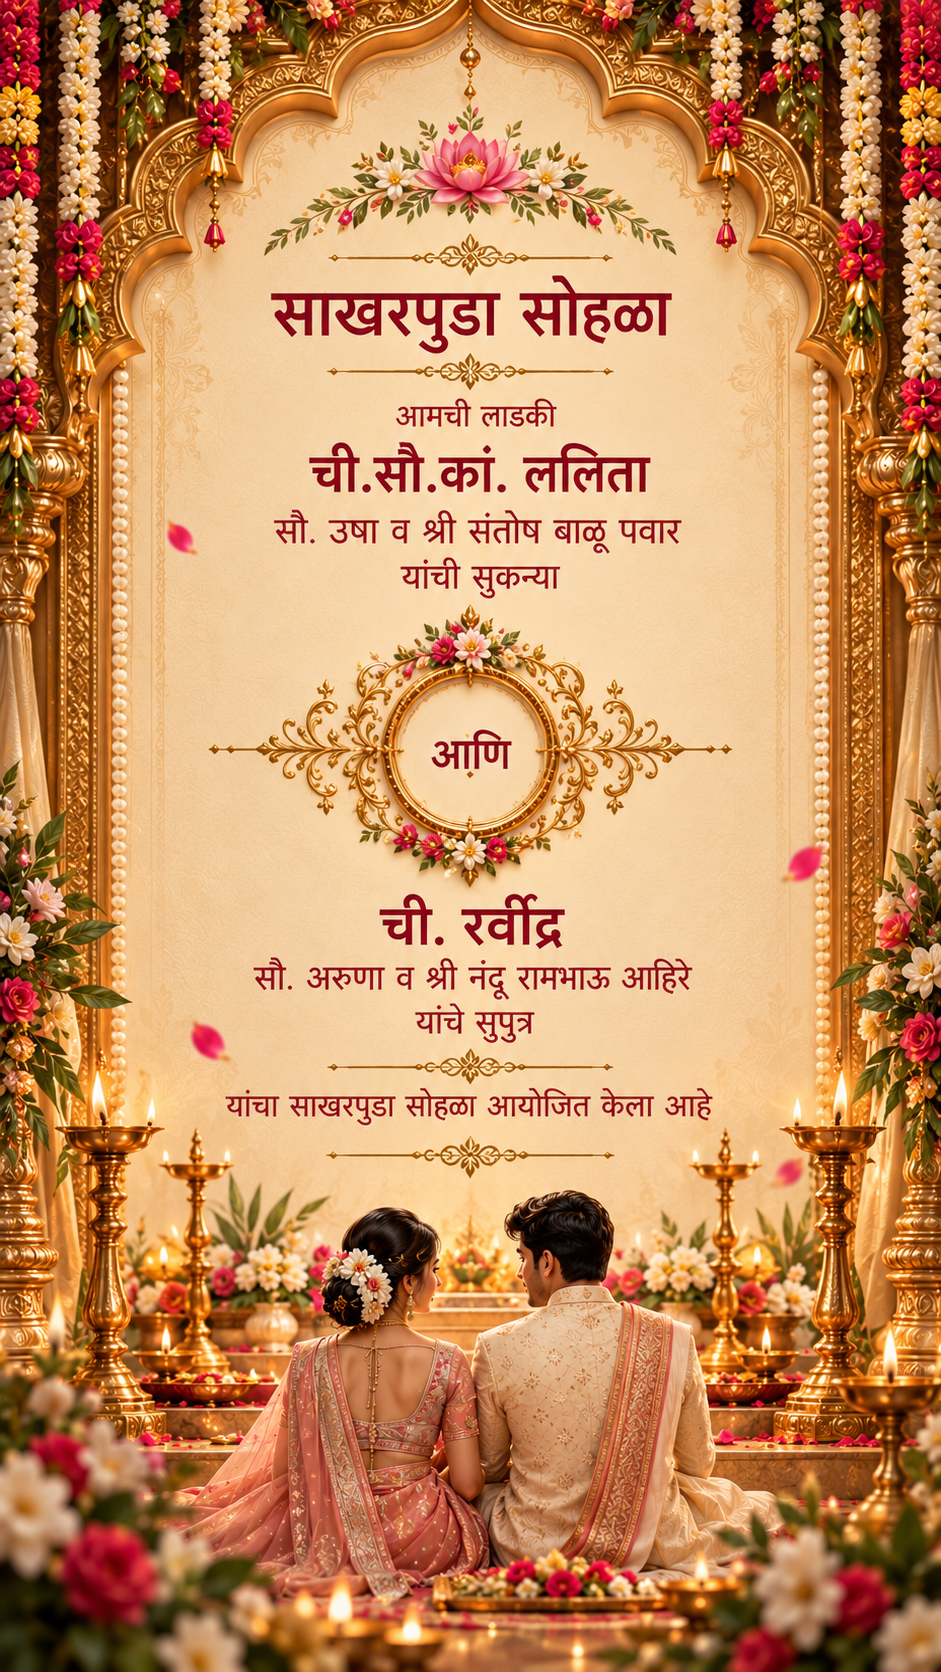
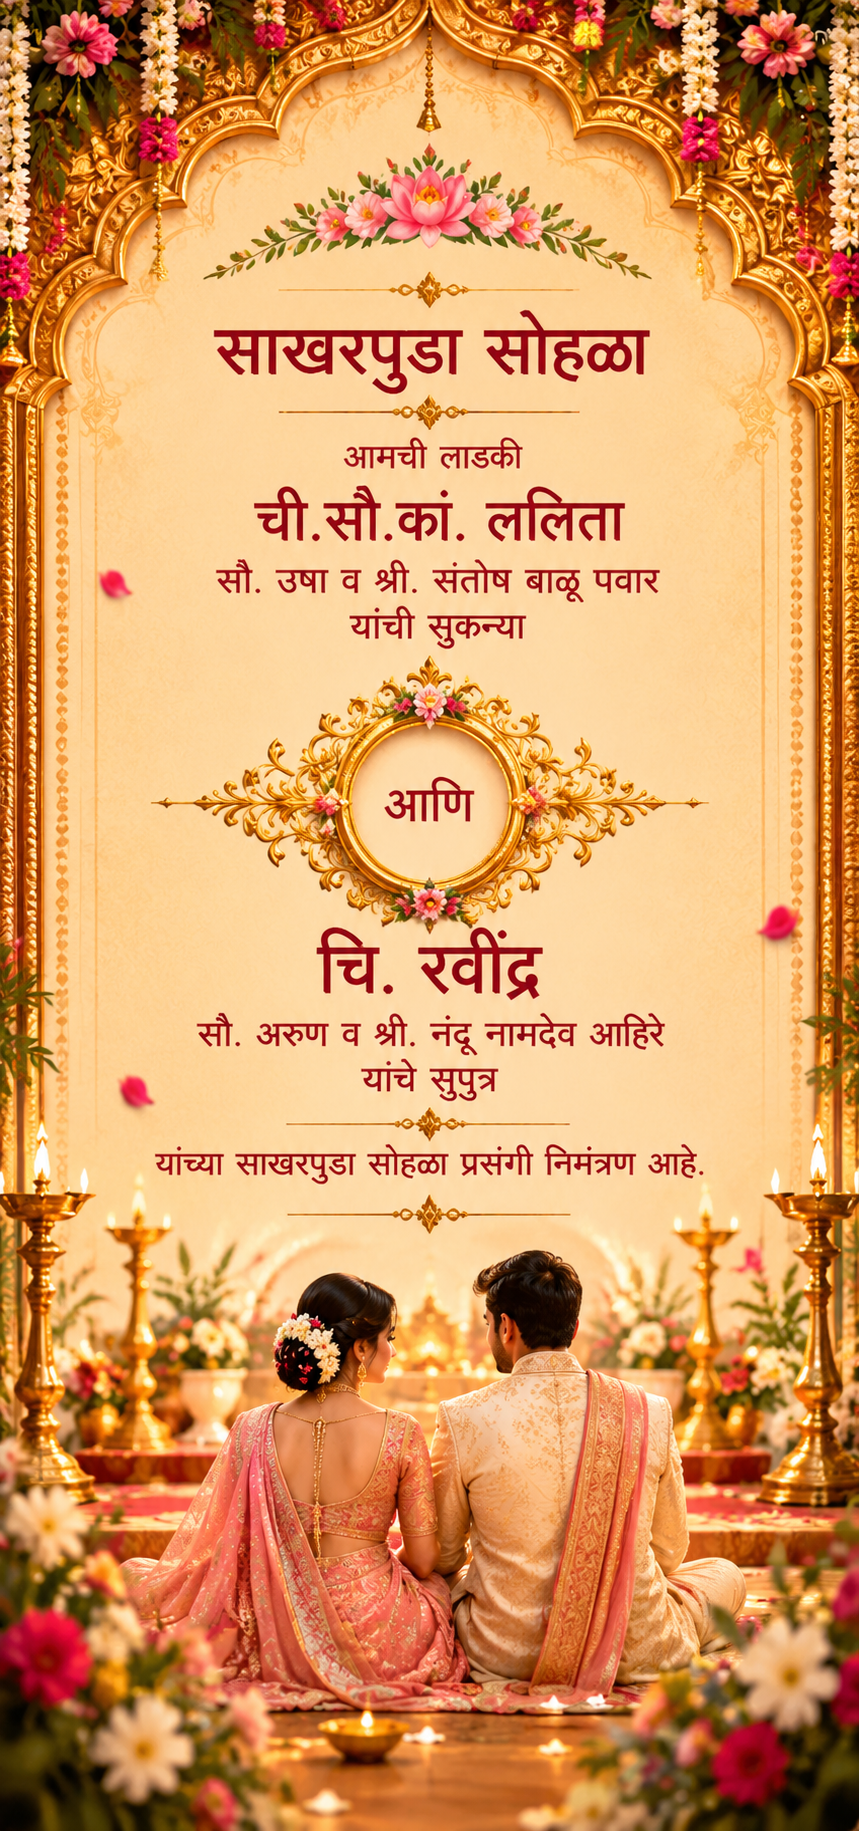
Update Page 2: Integrate new 4th.png artwork and optimize responsive layout

diff --git a/src/components/ThreePageInvitationCard.tsx b/src/components/ThreePageInvitationCard.tsx
@@ -1,7 +1,7 @@
 import React, { useState, useRef } from 'react';
 import { motion, AnimatePresence } from 'framer-motion';
 import type { Variants } from 'framer-motion';
-import { ChevronRight, ChevronLeft, RotateCcw } from 'lucide-react';
+import { ChevronRight, ChevronLeft, RotateCcw, Volume2, VolumeX } from 'lucide-react';
 import { EventCountdown } from './EventCountdown';
 import { CeremonyTimeline } from './CeremonyTimeline';
 import { VenueLocation } from './VenueLocation';
@@ -18,8 +18,25 @@ export const ThreePageInvitationCard: React.FC<ThreePageInvitationCardProps> = (
 }) => {
   const [currentPage, setCurrentPage] = useState<1 | 2 | 3>(initialPage);
   const [direction, setDirection] = useState<number>(1);
+  const [isMuted, setIsMuted] = useState<boolean>(false);
   const touchStartX = useRef<number | null>(null);
   const touchStartY = useRef<number | null>(null);
+
+  const toggleAudio = () => {
+    const audio = document.getElementById('bgMusic') as HTMLAudioElement | null;
+    if (audio) {
+      if (audio.paused || audio.muted) {
+        audio.muted = false;
+        audio.play().catch(() => {});
+        setIsMuted(false);
+      } else {
+        audio.pause();
+        setIsMuted(true);
+      }
+    } else {
+      setIsMuted(!isMuted);
+    }
+  };
 
   const goToPage = (page: 1 | 2 | 3) => {
     if (page < 1 || page > 3 || page === currentPage) return;
@@ -99,7 +116,7 @@ export const ThreePageInvitationCard: React.FC<ThreePageInvitationCardProps> = (
       
       {/* Top Floating Controls Bar with Safe-Area Inset Support */}
       <div 
-        className="fixed inset-x-0 z-40 flex items-center justify-between px-3 sm:px-5 max-w-[480px] mx-auto pointer-events-auto"
+        className="fixed inset-x-0 w-full max-w-[480px] mx-auto z-40 flex items-center justify-between px-3.5 sm:px-5 pointer-events-auto"
         style={{
           top: 'max(12px, calc(env(safe-area-inset-top, 0px) + 8px))',
         }}
@@ -124,16 +141,29 @@ export const ThreePageInvitationCard: React.FC<ThreePageInvitationCardProps> = (
           </span>
         </div>
 
-        {/* Restart Ceremony Icon */}
-        <button
-          type="button"
-          onClick={onReplay}
-          aria-label="पुन्हा पहा"
-          className="p-2 rounded-full bg-[#230510]/90 text-[#ffd700] hover:text-white border border-[#d4af37]/60 shadow-[0_4px_16px_rgba(0,0,0,0.6)] backdrop-blur-md transition-all active:scale-95 cursor-pointer"
-          title="पुन्हा सुरु करा (Restart Ceremony)"
-        >
-          <RotateCcw className="w-4 h-4" />
-        </button>
+        <div className="flex items-center gap-2">
+          {/* Background Music Mute / Unmute Button */}
+          <button
+            type="button"
+            onClick={toggleAudio}
+            aria-label={isMuted ? "संगीत सुरु करा (Unmute music)" : "संगीत बंद करा (Mute music)"}
+            className="p-2 rounded-full bg-[#230510]/90 text-[#ffd700] hover:text-white border border-[#d4af37]/60 shadow-[0_4px_16px_rgba(0,0,0,0.6)] backdrop-blur-md transition-all active:scale-95 cursor-pointer"
+            title={isMuted ? "संगीत सुरु करा" : "संगीत बंद करा"}
+          >
+            {isMuted ? <VolumeX className="w-4 h-4" /> : <Volume2 className="w-4 h-4" />}
+          </button>
+
+          {/* Restart Ceremony Icon */}
+          <button
+            type="button"
+            onClick={onReplay}
+            aria-label="पुन्हा पहा"
+            className="p-2 rounded-full bg-[#230510]/90 text-[#ffd700] hover:text-white border border-[#d4af37]/60 shadow-[0_4px_16px_rgba(0,0,0,0.6)] backdrop-blur-md transition-all active:scale-95 cursor-pointer"
+            title="पुन्हा सुरु करा (Restart Ceremony)"
+          >
+            <RotateCcw className="w-4 h-4" />
+          </button>
+        </div>
       </div>
 
       {/* Full-Screen Edge-to-Edge Invitation Page Viewport with 3D Perspective */}
@@ -195,8 +225,17 @@ export const ThreePageInvitationCard: React.FC<ThreePageInvitationCardProps> = (
                 {/* 5. Family Contacts Section at the End */}
                 <FamilyContacts />
               </div>
+            ) : currentPage === 2 ? (
+              /* Page 2: Newly Supplied 4th.png Invitation Artwork with object-fit: contain */
+              <div className="relative w-full h-full min-h-[100vh] h-[100dvh] flex items-center justify-center pt-[max(56px,calc(env(safe-area-inset-top,0px)+50px))] pb-[max(80px,calc(env(safe-area-inset-bottom,0px)+74px))] px-2 sm:px-4 overflow-hidden pointer-events-auto">
+                <img
+                  src="/images/4th.png"
+                  alt="साखरपुडा सोहळा - ची.सौ.कां. ललिता आणि ची. रवींद्र"
+                  className="w-full h-full max-h-full max-w-full object-contain object-center pointer-events-none drop-shadow-[0_16px_50px_rgba(0,0,0,0.95)]"
+                />
+              </div>
             ) : (
-              /* Pages 1 & 2: Full-screen exact artwork images */
+              /* Page 1: Full-screen exact artwork image */
               <img
                 src={pages[currentPage - 1].src}
                 alt={pages[currentPage - 1].alt}
